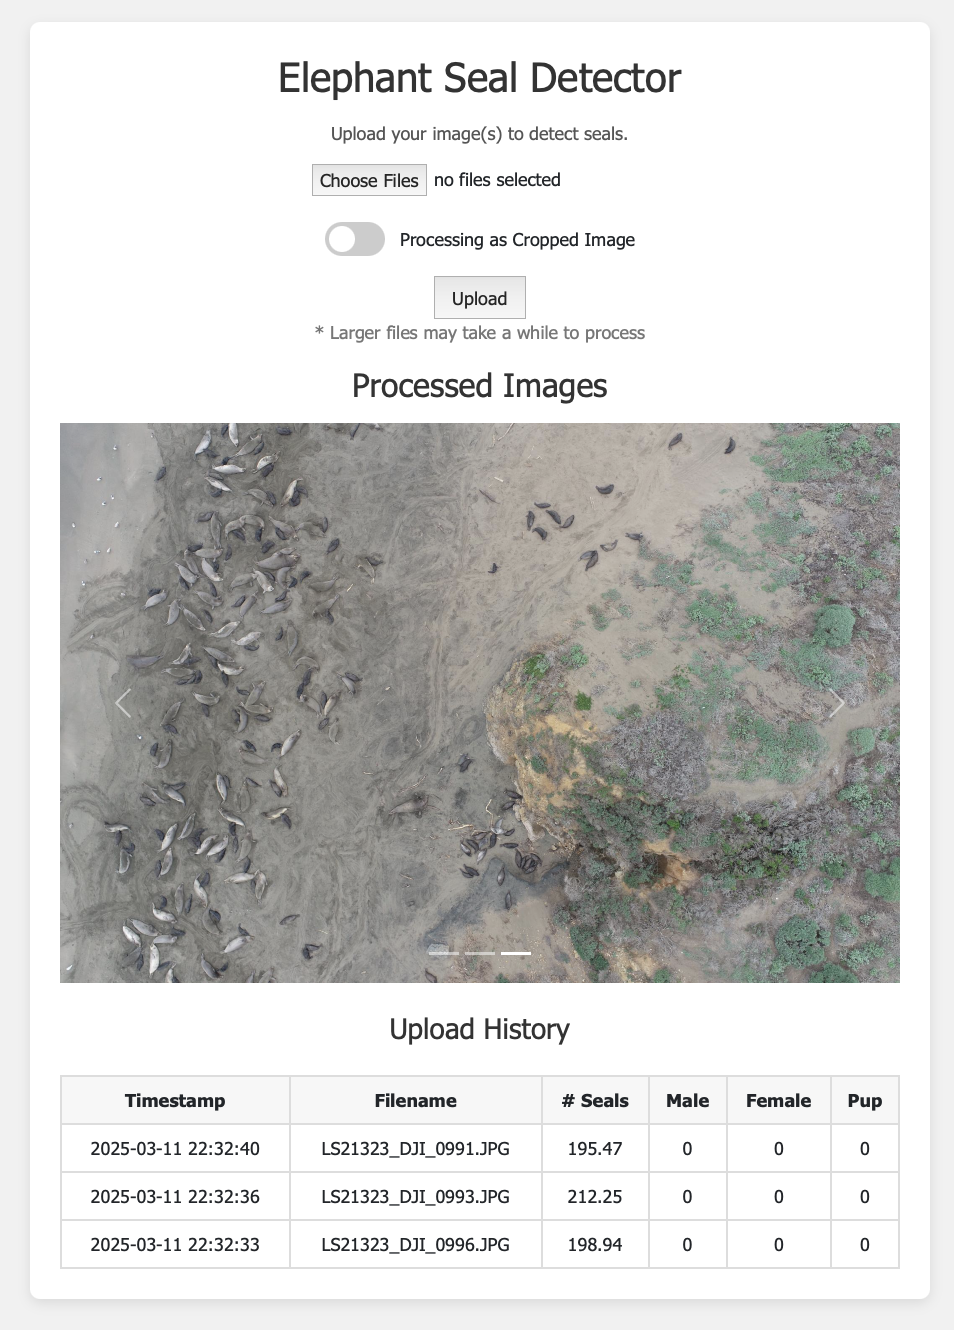
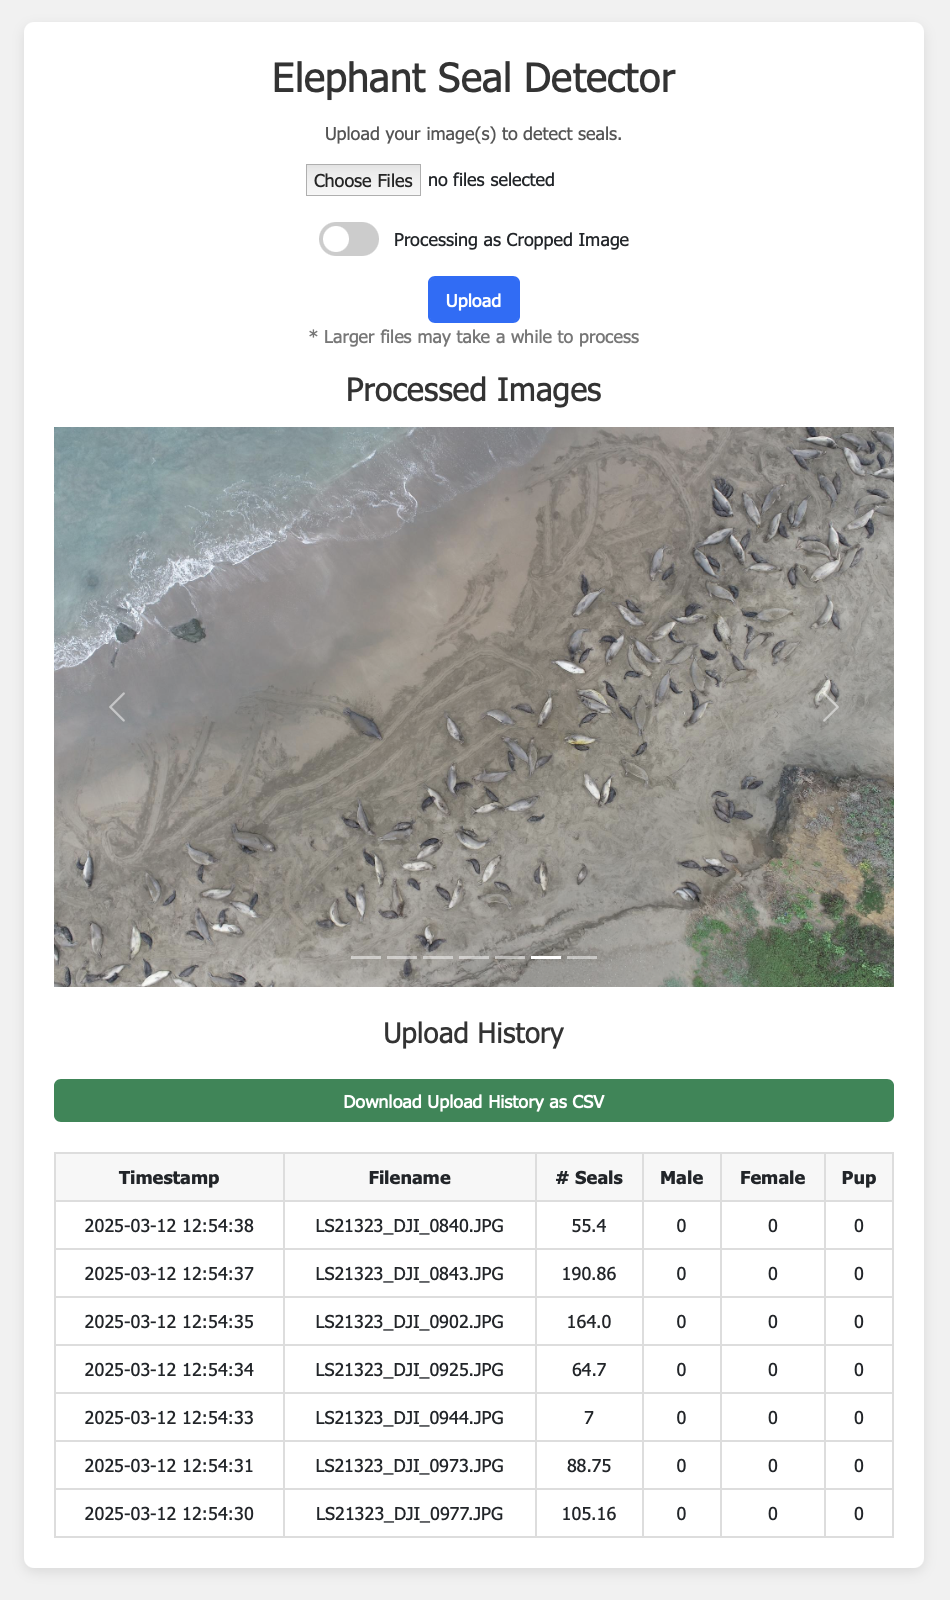
update

diff --git a/src/app.py b/src/app.py
@@ -1,16 +1,18 @@
 import io, os
 import base64
 import sys
+import csv
 from datetime import datetime
-from flask import Flask, request, render_template_string
+from flask import Flask, request, render_template_string, Response
 from PIL import Image
 from process import process_mosaic_in_memory, process_cropped_image
 from roboflow import Roboflow
 
 app = Flask(__name__)
 
-# In-memory storage for stats and processed images
+# Global stats table (in-memory) as a list of dictionaries
 stats_table = []
+# Global list for processed images (each entry is a base64 string)
 processed_images = []
 
 HTML_TEMPLATE = """
@@ -30,7 +32,6 @@ HTML_TEMPLATE = """
     ></script>
 
     <style>
-      /* Basic page styling */
       body {
         font-family: 'Segoe UI', Tahoma, Geneva, Verdana, sans-serif;
         margin: 0;
@@ -62,7 +63,6 @@ HTML_TEMPLATE = """
         text-align: center;
         margin-bottom: 20px;
       }
-
       /* Toggle switch styling */
       .switch {
         position: relative;
@@ -77,7 +77,10 @@ HTML_TEMPLATE = """
       .slider {
         position: absolute;
         cursor: pointer;
-        top: 0; left: 0; right: 0; bottom: 0;
+        top: 0;
+        left: 0;
+        right: 0;
+        bottom: 0;
         background-color: #ccc;
         transition: .4s;
         border-radius: 34px;
@@ -111,15 +114,13 @@ HTML_TEMPLATE = """
         margin-top: 10px;
         text-align: center;
       }
-
       /* Carousel styling overrides */
       .carousel-item img {
         width: 100%;
         height: auto;
         max-height: 600px; /* adjust as needed */
-        object-fit: cover; /* or 'contain' if you prefer letterboxing */
+        object-fit: cover;
       }
-
       .notice {
         color: #777;
         font-size: 0.9em;
@@ -137,6 +138,10 @@ HTML_TEMPLATE = """
       }
       th {
         background-color: #f7f7f7;
+      }
+      .download-btn {
+        margin: 20px auto;
+        display: block;
       }
     </style>
     <script>
@@ -158,7 +163,6 @@ HTML_TEMPLATE = """
         localStorage.setItem("processingMode", mode);
         updateToggleLabel(checkbox.checked);
       }
-      // Show a loading message
       function showLoading() {
         document.getElementById('loading-message').style.display = 'block';
       }
@@ -171,10 +175,9 @@ HTML_TEMPLATE = """
       
       <div class="upload-section">
         <form method="post" enctype="multipart/form-data" action="/process" onsubmit="showLoading()">
-          <!-- multiple file input -->
           <input type="file" name="image" multiple required>
           <br/><br/>
-          <!-- Toggle placed inside the form so its value is submitted -->
+          <!-- Toggle inside the form -->
           <div class="toggle-section">
             <label class="switch">
               <input type="checkbox" id="mosaicToggle" name="mosaic_mode" onchange="toggleChanged(this)">
@@ -182,7 +185,7 @@ HTML_TEMPLATE = """
             </label>
             <span id="toggleLabel">Processing as Mosaic</span>
           </div>
-          <input type="submit" value="Upload" style="padding: 8px 16px; cursor: pointer;">
+          <input type="submit" value="Upload" class="btn btn-primary" style="padding: 8px 16px; cursor: pointer;">
         </form>
         <p class="notice">* Larger files may take a while to process</p>
         <div id="loading-message">Processing your image(s), please wait...</div>
@@ -190,19 +193,15 @@ HTML_TEMPLATE = """
       
       {% if image_data %}
         <h2>Processed Images</h2>
-        <!-- Bootstrap Carousel -->
-        <div id="processedCarousel" class="carousel slide mx-auto" style="max-width: 100%;" data-bs-ride="carousel">
+        <!-- Bootstrap Carousel (without auto-cycling) -->
+        <div id="processedCarousel" class="carousel slide mx-auto" style="max-width: 100%;">
           <!-- Indicators -->
           <div class="carousel-indicators">
             {% for img in image_data %}
-              <button
-                type="button"
-                data-bs-target="#processedCarousel"
-                data-bs-slide-to="{{ loop.index0 }}"
+              <button type="button" data-bs-target="#processedCarousel" data-bs-slide-to="{{ loop.index0 }}"
                 class="{% if loop.index0 == 0 %}active{% endif %}"
                 aria-current="{% if loop.index0 == 0 %}true{% else %}false{% endif %}"
-                aria-label="Slide {{ loop.index0 }}"
-              ></button>
+                aria-label="Slide {{ loop.index0 }}"></button>
             {% endfor %}
           </div>
           <!-- Slides -->
@@ -224,9 +223,13 @@ HTML_TEMPLATE = """
           </button>
         </div>
       {% endif %}
-      
+    
+    
     <div style="margin-top: 30px;"></div>
       <h3>Upload History</h3>
+      <div style="margin-top: 30px; text-align: center;">
+        <a href="/download" class="btn btn-success download-btn">Download Upload History as CSV</a>
+      </div>
       {% if stats_table and stats_table|length > 0 %}
       <table>
         <thead>
@@ -260,20 +263,17 @@ HTML_TEMPLATE = """
 </html>
 """
 
-
 @app.route("/", methods=["GET"])
 def index():
-    # Render the page with the existing stats_table and processed_images
     return render_template_string(
         HTML_TEMPLATE,
         stats_table=stats_table,
         image_data=processed_images
     )
 
-
 @app.route("/process", methods=["POST"])
 def process():
-    # Initialize Roboflow
+        # Initialize Roboflow
     api_key = os.environ.get("ROBOFLOW_API_KEY")
     if not api_key:
         raise Exception("ROBOFLOW_API_KEY environment variable is not set.")
@@ -281,21 +281,18 @@ def process():
     project = rf.workspace().project("elephant-seals-project-mark-1")
     model = project.version("14").model
 
+
     if "image" not in request.files:
         return "No file part", 400
     files = request.files.getlist("image")
     if not files or files[0].filename == "":
         return "No selected file(s)", 400
 
-    # Determine mosaic or cropped mode
-    mode = "mosaic" if request.form.get(
-        "mosaic_mode") is not None else "cropped"
+    mode = "mosaic" if request.form.get("mosaic_mode") is not None else "cropped"
     print("Mode is:", mode)
     sys.stdout.flush()
 
-    # We'll store the new images from this batch in a local list
     image_data_list = []
-
     for file in files:
         try:
             pil_image = Image.open(file.stream)
@@ -303,12 +300,11 @@ def process():
             return f"Error opening image: {e}", 400
 
         if mode == "mosaic":
-            # processed_image, stats = process_mosaic_in_memory(pil_image)
+            # final_image, stats = process_mosaic_in_memory(pil_image)
             pass
         else:
-            processed_image, stats = process_cropped_image(pil_image, model)
+            final_image, stats = process_cropped_image(pil_image, model)
 
-        # Insert stats at the beginning so newest appear at the top
         new_stats = {
             "timestamp": datetime.now().strftime("%Y-%m-%d %H:%M:%S"),
             "filename": file.filename,
@@ -319,18 +315,15 @@ def process():
         }
         stats_table.insert(0, new_stats)
 
-        # Convert processed image to base64
         buf = io.BytesIO()
-        processed_image = processed_image.convert("RGB")
-        processed_image.thumbnail((2000, 2000), Image.Resampling.LANCZOS)
-        processed_image.save(buf, format="JPEG", quality=75)
+        final_image = final_image.convert("RGB")
+        final_image.thumbnail((2000, 2000), Image.Resampling.LANCZOS)
+        final_image.save(buf, format="JPEG", quality=75)
         buf.seek(0)
         img_bytes = buf.getvalue()
         img_b64 = base64.b64encode(img_bytes).decode("utf-8")
         image_data_list.append(img_b64)
 
-    # Update the global processed_images with the new images
-    # Keep old images too, then extend instead of replace
     global processed_images
     processed_images = image_data_list
 
@@ -340,6 +333,24 @@ def process():
         stats_table=stats_table
     )
 
+@app.route("/download", methods=["GET"])
+def download():
+    # Create a CSV from stats_table
+    si = io.StringIO()
+    fieldnames = ["timestamp", "filename", "seals", "male", "female", "pup"]
+    writer = csv.DictWriter(si, fieldnames=fieldnames)
+    writer.writeheader()
+    for row in stats_table:
+        writer.writerow(row)
+    output = si.getvalue()
+    si.close()
+
+    # Return CSV as a downloadable file
+    return Response(
+        output,
+        mimetype="text/csv",
+        headers={"Content-Disposition": "attachment;filename=upload_history.csv"}
+    )
 
 if __name__ == "__main__":
     app.run(debug=True)
